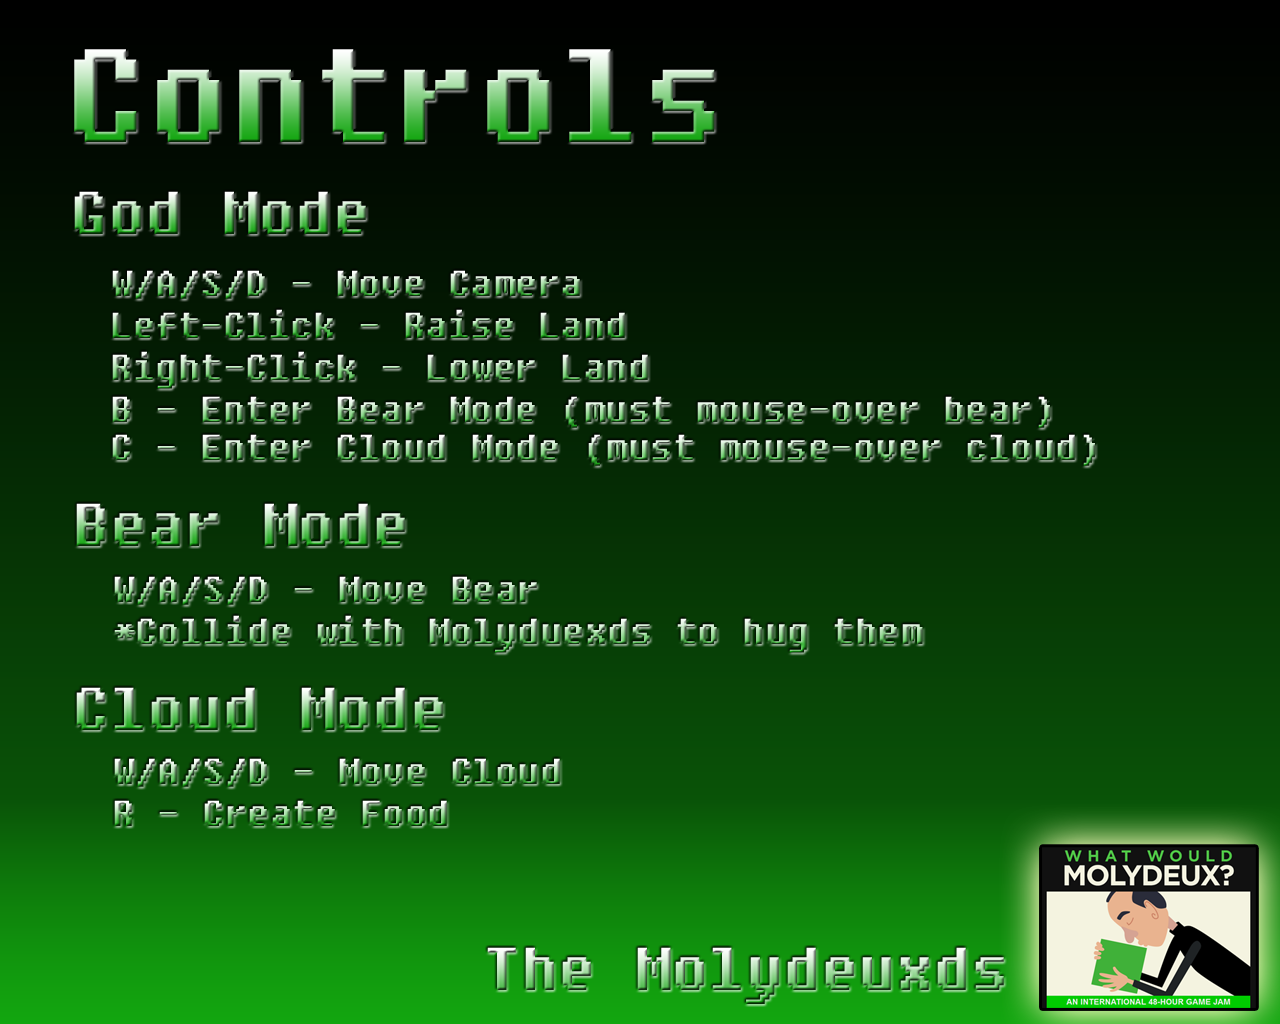
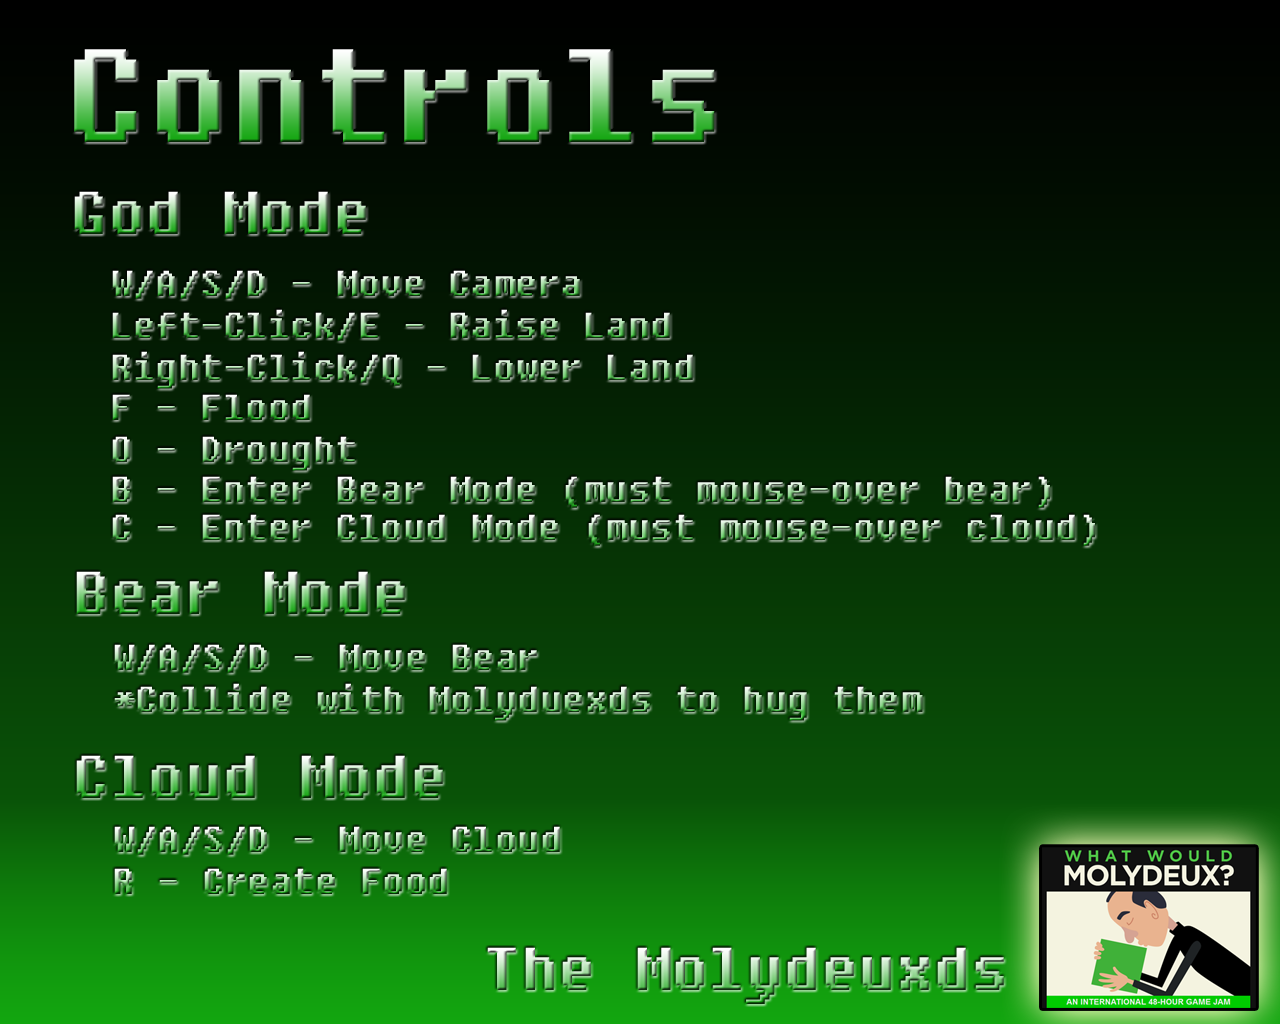
Fixed bears, more tweaks, and random fixes

Changed region(s): [[0.0312, 0.2812, 0.875, 0.875]]

diff --git a/Assets/Scripts/Cameras/RTSCam.cs b/Assets/Scripts/Cameras/RTSCam.cs
@@ -82,26 +82,10 @@ public class RTSCam : MonoBehaviour
 			m_selection.transform.position = hitSel.point;
 		}
 		
-		if( Input.GetKeyDown( "r" ) )
-		{
-			if( World.me.m_energy.current >= World.me.m_godRainEnergy )
-			{
-				Ray ray = World.me.GetActiveCamera().ScreenPointToRay(Input.mousePosition);
-				
-				RaycastHit hit;
-				
-	            if( Physics.Raycast( ray, out hit ) )
-				{
-					Instantiate( World.me.m_foodDef, hit.point, new Quaternion() );
-					World.me.m_energy.add ( -World.me.m_godRainEnergy );
-				}
-			}
-		}
-		
-		
 		if( Input.GetKeyDown( "f" ) )
 		{
-			if( World.me.m_energy.current >= World.me.m_godFloodEnergy )
+			Vector3 waterPos = World.me.m_waterObj.transform.position;
+			if( World.me.m_energy.current >= World.me.m_godFloodEnergy && waterPos.y <= 10)
 			{
 				World.me.m_waterObj.transform.position += new Vector3( 0, 1, 0 );
 				
@@ -111,7 +95,8 @@ public class RTSCam : MonoBehaviour
 
 		if( Input.GetKeyDown( "o" ) )
 		{
-			if( World.me.m_energy.current >= World.me.m_godDroughtEnergy )
+			Vector3 waterPos = World.me.m_waterObj.transform.position;
+			if( World.me.m_energy.current >= World.me.m_godDroughtEnergy && waterPos.y >= 0 )
 			{
 				World.me.m_waterObj.transform.position -= new Vector3( 0, 1, 0 );
 				
@@ -119,24 +104,24 @@ public class RTSCam : MonoBehaviour
 			}
 		}
 
-		if( Input.GetKeyDown( "v" ) )
-		{
-			if( World.me.m_energy.current >= World.me.m_godVolcanoEnergy )
-			{
-				Ray ray = World.me.GetActiveCamera().ScreenPointToRay(Input.mousePosition);
-				
-				RaycastHit hit;
-				
-	            if( Physics.Raycast( ray, out hit ) )
-				{
-					World.me.m_energy.add( -World.me.m_godVolcanoEnergy );
-					
-					StartCoroutine( Volcano( hit.point ) );
-				}
-			}
-		}
+		//if( Input.GetKeyDown( "v" ) )
+		//{
+		//	if( World.me.m_energy.current >= World.me.m_godVolcanoEnergy )
+		//	{
+		//		Ray ray = World.me.GetActiveCamera().ScreenPointToRay(Input.mousePosition);
+		//		
+		//		RaycastHit hit;
+		//		
+	    //      if( Physics.Raycast( ray, out hit ) )
+		//		{
+		//			World.me.m_energy.add( -World.me.m_godVolcanoEnergy );
+		//			
+		//			StartCoroutine( Volcano( hit.point ) );
+		//		}
+		//	}
+		//}
 
-		if( Input.GetKey( KeyCode.Q ) || Input.GetMouseButton( 0 ) )
+		if( Input.GetKeyDown( KeyCode.Q ) || Input.GetMouseButton( 0 ) )
 		{
 			if( World.me.m_energy.current >= World.me.m_godAddLandEnergy )
 			{
@@ -155,7 +140,7 @@ public class RTSCam : MonoBehaviour
 			}
 		}
 		
-		if( Input.GetKey(KeyCode.E ) || Input.GetMouseButton( 1 ) )
+		if( Input.GetKeyDown(KeyCode.E ) || Input.GetMouseButton( 1 ) )
 		{
 			if( World.me.m_energy.current >= World.me.m_godRemLandEnergy )
 			{
@@ -183,6 +168,7 @@ public class RTSCam : MonoBehaviour
 					World.me.m_currentMode = World.Mode.BEAR;
 					World.me.RefreshCameras();
 					World.me.GetActiveCamera().GetComponentInChildren<BearCam>().target = hitSel.transform.gameObject;
+					hitSel.transform.gameObject.GetComponentInChildren<RabidBear>().GetPossessed();
 					hitSel.transform.gameObject.GetComponentInChildren<RabidBear>().enabled = false;
 					hitSel.transform.gameObject.GetComponentInChildren<BearScript>().enabled = true;
 				}

diff --git a/Assets/Scripts/Walker.cs b/Assets/Scripts/Walker.cs
@@ -44,7 +44,7 @@ public class Walker : MonoBehaviour
 	{
 		m_age += Time.deltaTime;
 		
-		float energy = World.me.m_player == m_side ? m_addEnergy : -m_addEnergy * 0.75f;
+		float energy = World.me.m_player == m_side ? m_addEnergy : m_addEnergy * World.me.m_energy.increasePerWorker;
 		
 		World.me.m_energy.add( energy * Time.deltaTime );
 		
@@ -53,8 +53,13 @@ public class Walker : MonoBehaviour
 			if( m_age > s_ageToMakeBuilding )
 			{
 				m_chanceOfBuilding = 1.0f;
-				
-				Instantiate( m_buildingDef, transform.position, new Quaternion() );
+				GameObject hut = Instantiate( m_buildingDef, transform.position, new Quaternion() )as GameObject;
+				if (m_side == Side.Blue)
+					hut.GetComponentInChildren<MeshRenderer>().material.color = Color.blue;
+				else if (m_side == Side.Red)
+					hut.GetComponentInChildren<MeshRenderer>().material.color = Color.red;
+				else
+					Debug.Log(m_name + " has no side....DAMNIT JAKE");
 			}
 		}
 		

diff --git a/Assets/Scripts/AI/Action.cs b/Assets/Scripts/AI/Action.cs
@@ -2,9 +2,9 @@ using UnityEngine;
 using System.Collections;
 
 
-class Action
+class Action 
 {
-	protected Walker m_walker; 
+	protected Walker m_walker;
 	
 	public Action( Walker walker )
 	{
@@ -39,6 +39,11 @@ class Action
 			Vector3 p = m_walker.transform.position + dir * distThisFrame;
 			
 			float y = World.me.getWorldHeight( p.x, p.z ) - 0.5f;
+			
+			if (isUnderGodControl)
+			{
+				yield break;
+			}
 			
 			if( m_walker.gameObject.GetComponent<Ghost>() == null )
 			{
@@ -299,7 +304,7 @@ class ActBear : Action
 	{
 		while( true )
 		{
-			yield return m_walker.StartCoroutine( extractHumanResource() );
+				yield return m_walker.StartCoroutine( extractHumanResource() );
 		}
 	}
 }

diff --git a/Assets/Scripts/Cameras/CloudCam.cs b/Assets/Scripts/Cameras/CloudCam.cs
@@ -38,29 +38,6 @@ public class CloudCam : MonoBehaviour {
 				}
 			}
 		}
-		
-		
-		/*
-		if(Input.GetKey(KeyCode.W))
-		{
-			World.me.GetActiveCamera().transform.position += Vector3.forward * Time.deltaTime * velocity;
-		}
-		
-		if(Input.GetKey(KeyCode.S))
-		{
-			World.me.GetActiveCamera().transform.position += Vector3.back * Time.deltaTime * velocity;
-		}
-		
-		if(Input.GetKey(KeyCode.D))
-		{
-			World.me.GetActiveCamera().transform.position += Vector3.right * Time.deltaTime * velocity;
-		}
-	
-		if(Input.GetKey(KeyCode.A))
-		{
-			World.me.GetActiveCamera().transform.position += Vector3.left * Time.deltaTime * velocity;
-		}
-		*/
 	}
 	
 	

diff --git a/Assets/Scripts/World.cs b/Assets/Scripts/World.cs
@@ -454,7 +454,7 @@ public class World : MonoBehaviour
 		public float decayAmount;
 		public float decayTime;
 		public float lastDecay;
-
+		public float increasePerWorker = 0.01f;
 		public float current{ get; private set; }
 		
 		public void add( float val )

diff --git a/Assets/Scripts/RabidBear.cs b/Assets/Scripts/RabidBear.cs
@@ -26,6 +26,11 @@ public class RabidBear : Walker
 	{
 	}
 	
+	public void GetPossessed()
+	{
+		StopAllCoroutines();
+	}
+	
 	public void setName(string name)
 	{
 		bearName = name;
